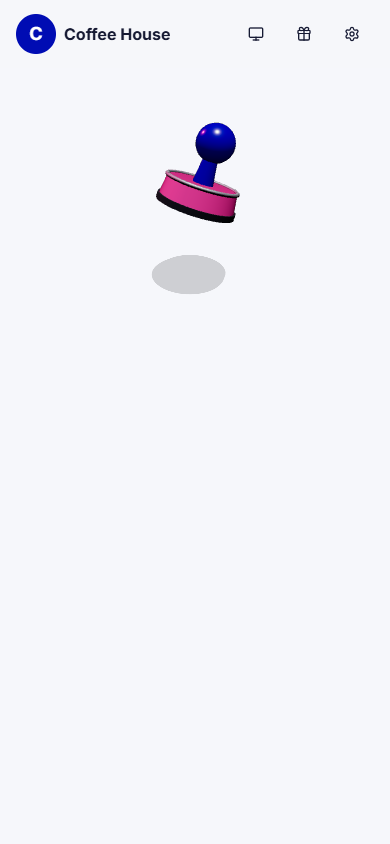
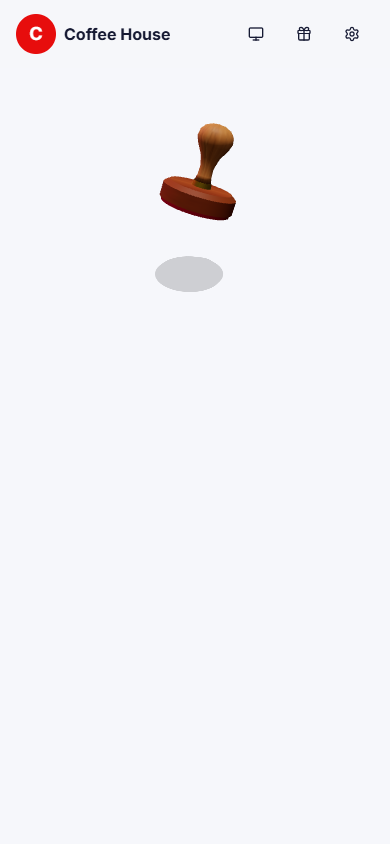
feat: wooden 3D stamp model; imprint flattens into a 2D stamp after the press

diff --git a/frontend/src/customer/components/stamp3d/scene.ts b/frontend/src/customer/components/stamp3d/scene.ts
@@ -3,22 +3,22 @@ import {
   CanvasTexture,
   Color,
   CylinderGeometry,
+  LatheGeometry,
   DirectionalLight,
   Group,
   HemisphereLight,
   Mesh,
   MeshBasicMaterial,
-  MeshPhysicalMaterial,
   MeshStandardMaterial,
   PCFSoftShadowMap,
   PerspectiveCamera,
   PlaneGeometry,
+  RepeatWrapping,
   RingGeometry,
   Scene,
   ShadowMaterial,
-  SphereGeometry,
   SRGBColorSpace,
-  TorusGeometry,
+  Vector2,
   WebGLRenderer,
 } from 'three';
 
@@ -26,13 +26,15 @@ import {
  * Möhür ekranının real 3D səhnəsi (Three.js / WebGL). Bu modul yalnız möhür ekranında dinamik yüklənir (ayrıca
  * paket hissəsi), əsas tətbiqin ölçüsünə təsir etmir.
  *
- * Damğa şirkətin brend rəngindədir (CSS dəyişənləri --primary və --accent). Ssenari (~2,4 san): damğa havada
+ * Damğa klassik taxta möhürdür; rezin altlıq və iz şirkətin brend rəngindədir (CSS dəyişəni --primary). Ssenari (~2,4 san): damğa havada
  * yellənir, qalxır, zərblə masaya vurulur (sıxılır, kamera silkələnir, mürəkkəb dalğası), fırlanaraq kiçilib yox olur.
  * Masada rəngli möhür izi qalır.
  */
 export interface StampSceneOptions {
   reducedMotion: boolean;
   onImpact: () => void;
+  /** Animasiya bitdi — 3D səhnə 2D izə keçə bilər. */
+  onDone: () => void;
 }
 
 const DURATION = 2.4;
@@ -92,16 +94,31 @@ export function startStampScene(canvas: HTMLCanvasElement, options: StampSceneOp
   ink.position.y = 0.01;
   scene.add(ink);
 
-  // Damğa: rezin altlıq, parlaq gövdə, metal halqa, boyun, kürə tutacaq
+  // Damğa (klassik taxta möhür): rezin altlıq (mürəkkəb rəngində, tünd), taxta blok, mis halqa, yonulmuş taxta tutacaq
   const stamp = new Group();
-  const glossy = (color: Color) =>
-    new MeshPhysicalMaterial({ color, roughness: 0.28, metalness: 0.05, clearcoat: 1, clearcoatRoughness: 0.15 });
+  const woodTexture = new CanvasTexture(drawWood());
+  woodTexture.colorSpace = SRGBColorSpace;
+  woodTexture.wrapS = RepeatWrapping;
+  woodTexture.wrapT = RepeatWrapping;
+  const wood = new MeshStandardMaterial({ map: woodTexture, roughness: 0.55, metalness: 0 });
+  const darkWood = new MeshStandardMaterial({ map: woodTexture, color: 0xb98a63, roughness: 0.6 });
+  const rubber = new MeshStandardMaterial({ color: primary.clone().lerp(new Color(0x1a1a1a), 0.72), roughness: 0.9 });
+  const brass = new MeshStandardMaterial({ color: 0xc9a227, metalness: 0.85, roughness: 0.35 });
+  const handle = new LatheGeometry(
+    [
+      [0.001, 0], [0.24, 0], [0.2, 0.18], [0.19, 0.42], [0.27, 0.72], [0.44, 1.02], [0.5, 1.2],
+      [0.47, 1.38], [0.36, 1.52], [0.18, 1.6], [0.001, 1.62],
+    ].map(([x, y]) => new Vector2(x, y)),
+    48,
+  );
+  const handleMesh = new Mesh(handle, wood);
+  handleMesh.position.y = 0.76;
   const parts: Mesh[] = [
-    placed(new Mesh(new CylinderGeometry(1.15, 1.15, 0.18, 64), new MeshStandardMaterial({ color: 0x1d1d28, roughness: 0.9 })), 0.09),
-    placed(new Mesh(new CylinderGeometry(1.02, 1.1, 0.55, 64), glossy(accent)), 0.455),
-    placed(new Mesh(new TorusGeometry(1.03, 0.055, 16, 64), new MeshStandardMaterial({ color: 0xdadae6, metalness: 1, roughness: 0.3 })), 0.73, true),
-    placed(new Mesh(new CylinderGeometry(0.2, 0.3, 0.75, 32), glossy(primary)), 1.1),
-    placed(new Mesh(new SphereGeometry(0.55, 48, 32), glossy(primary)), 1.88),
+    placed(new Mesh(new CylinderGeometry(1.0, 1.0, 0.1, 64), rubber), 0.05),
+    placed(new Mesh(new CylinderGeometry(1.06, 1.06, 0.4, 64), darkWood), 0.3),
+    placed(new Mesh(new CylinderGeometry(0.9, 1.06, 0.12, 64), darkWood), 0.56),
+    placed(new Mesh(new CylinderGeometry(0.26, 0.28, 0.14, 32), brass), 0.69),
+    handleMesh,
   ];
   parts.forEach((part) => {
     part.castShadow = true;
@@ -131,6 +148,8 @@ export function startStampScene(canvas: HTMLCanvasElement, options: StampSceneOp
     renderer.render(scene, camera);
     if (t < DURATION) {
       frame = requestAnimationFrame(render);
+    } else {
+      options.onDone();
     }
   };
   frame = requestAnimationFrame(render);
@@ -144,6 +163,7 @@ export function startStampScene(canvas: HTMLCanvasElement, options: StampSceneOp
       }
     });
     imprintTexture.dispose();
+    woodTexture.dispose();
     renderer.dispose();
   };
 }
@@ -234,6 +254,42 @@ function drawImprint(color: string): HTMLCanvasElement {
     ctx.beginPath();
     ctx.arc(Math.random() * size, Math.random() * size, Math.random() * 4 + 1, 0, Math.PI * 2);
     ctx.fill();
+  }
+  return canvas;
+}
+
+/** Prosedur taxta faktura: isti qəhvəyi fon üzərində dalğalı damarlar. */
+function drawWood(): HTMLCanvasElement {
+  const size = 512;
+  const canvas = document.createElement('canvas');
+  canvas.width = size;
+  canvas.height = size;
+  const ctx = canvas.getContext('2d');
+  if (!ctx) {
+    return canvas;
+  }
+  const base = ctx.createLinearGradient(0, 0, size, 0);
+  base.addColorStop(0, '#a8692f');
+  base.addColorStop(0.5, '#c4864a');
+  base.addColorStop(1, '#a3642c');
+  ctx.fillStyle = base;
+  ctx.fillRect(0, 0, size, size);
+  for (let i = 0; i < 70; i++) {
+    const x0 = Math.random() * size;
+    const amplitude = 4 + Math.random() * 10;
+    const frequency = 0.01 + Math.random() * 0.02;
+    ctx.strokeStyle = Math.random() < 0.7 ? 'rgba(92, 51, 18, 0.35)' : 'rgba(230, 180, 120, 0.25)';
+    ctx.lineWidth = 0.6 + Math.random() * 2.2;
+    ctx.beginPath();
+    for (let y = 0; y <= size; y += 8) {
+      const x = x0 + Math.sin(y * frequency + i) * amplitude;
+      if (y === 0) {
+        ctx.moveTo(x, y);
+      } else {
+        ctx.lineTo(x, y);
+      }
+    }
+    ctx.stroke();
   }
   return canvas;
 }

diff --git a/frontend/src/customer/components/stamp3d/StampScene.tsx b/frontend/src/customer/components/stamp3d/StampScene.tsx
@@ -1,14 +1,16 @@
-import { Star } from 'lucide-react';
 import { useEffect, useRef, useState } from 'react';
 
+import { cn } from '@/shared/lib/cn';
+
 /**
- * 3D damğa animasiyası. Three.js yalnız burada dinamik yüklənir; WebGL dəstəklənmirsə (köhnə cihaz, test mühiti)
- * sadə möhür izi göstərilir. {@code onImpact} — damğa masaya dəydiyi an (konfeti və yazı onunla başlayır).
+ * 3D damğa animasiyası. Three.js yalnız burada dinamik yüklənir. Damğa vurulub gedəndən sonra masadakı perspektivli
+ * iz "qalxaraq" düz 2D möhürə çevrilir. WebGL dəstəklənmirsə (köhnə cihaz, test mühiti) birbaşa 2D möhür göstərilir.
+ * {@code onImpact} — damğa masaya dəydiyi an (konfeti və yazı onunla başlayır).
  */
 export function StampScene({ onImpact }: { onImpact: () => void }) {
   const canvasRef = useRef<HTMLCanvasElement>(null);
   const impactRef = useRef(onImpact);
-  const [fallback, setFallback] = useState(false);
+  const [mode, setMode] = useState<'scene' | 'flat' | 'fallback'>('scene');
 
   useEffect(() => {
     impactRef.current = onImpact;
@@ -20,7 +22,7 @@ export function StampScene({ onImpact }: { onImpact: () => void }) {
     const reducedMotion = Boolean(window.matchMedia?.('(prefers-reduced-motion: reduce)').matches);
     const giveUp = () => {
       if (!cancelled) {
-        setFallback(true);
+        setMode('fallback');
         impactRef.current();
       }
     };
@@ -30,7 +32,15 @@ export function StampScene({ onImpact }: { onImpact: () => void }) {
           return;
         }
         try {
-          dispose = startStampScene(canvasRef.current, { reducedMotion, onImpact: () => impactRef.current() });
+          dispose = startStampScene(canvasRef.current, {
+            reducedMotion,
+            onImpact: () => impactRef.current(),
+            onDone: () => {
+              if (!cancelled) {
+                setMode('flat');
+              }
+            },
+          });
         } catch {
           giveUp();
         }
@@ -42,15 +52,29 @@ export function StampScene({ onImpact }: { onImpact: () => void }) {
     };
   }, []);
 
-  if (fallback) {
-    return (
-      <span
-        className="grid size-36 place-items-center rounded-full border-[6px] border-primary text-primary"
-        aria-hidden="true"
-      >
-        <Star className="size-14" fill="currentColor" />
-      </span>
-    );
+  if (mode === 'scene') {
+    return <canvas ref={canvasRef} className="h-64 w-72 max-w-full" aria-hidden="true" />;
   }
-  return <canvas ref={canvasRef} className="h-64 w-72 max-w-full" aria-hidden="true" />;
+  return (
+    <div className="relative h-64 w-72 max-w-full [perspective:700px]" aria-hidden="true">
+      <FlatImprint className={cn('absolute left-1/2 top-[60%] -ml-20 -mt-20', mode === 'flat' && 'animate-imprint-flatten')} />
+    </div>
+  );
+}
+
+/** Düz (2D) möhür izi — 3D səhnədəki izlə eyni: qalın halqa, qırıq daxili halqa, ulduz; şirkətin rəngində. */
+function FlatImprint({ className }: { className?: string }) {
+  return (
+    <svg viewBox="0 0 160 160" className={cn('size-40 text-primary', className)}>
+      <g transform="rotate(-14 80 80)" fill="none" stroke="currentColor">
+        <circle cx="80" cy="80" r="70" strokeWidth="9" />
+        <circle cx="80" cy="80" r="56" strokeWidth="3" strokeDasharray="9 6" />
+        <path
+          d="M80 42 L89.5 67 L116 68 L95 84.5 L102.5 110 L80 95 L57.5 110 L65 84.5 L44 68 L70.5 67 Z"
+          fill="currentColor"
+          stroke="none"
+        />
+      </g>
+    </svg>
+  );
 }

diff --git a/frontend/src/shared/styles/globals.css b/frontend/src/shared/styles/globals.css
@@ -190,3 +190,19 @@ input::-ms-reveal,
 input::-ms-clear {
   display: none;
 }
+
+/* Möhür izi: 3D səhnədəki perspektivli (masada yatan) izdən düz 2D möhürə keçid */
+@keyframes imprint-flatten {
+  from {
+    transform: rotateX(62deg) scale(0.92);
+    opacity: 0.85;
+  }
+  to {
+    transform: rotateX(0deg) scale(1);
+    opacity: 1;
+  }
+}
+
+@utility animate-imprint-flatten {
+  animation: imprint-flatten 0.7s cubic-bezier(0.34, 1.4, 0.64, 1) both;
+}
